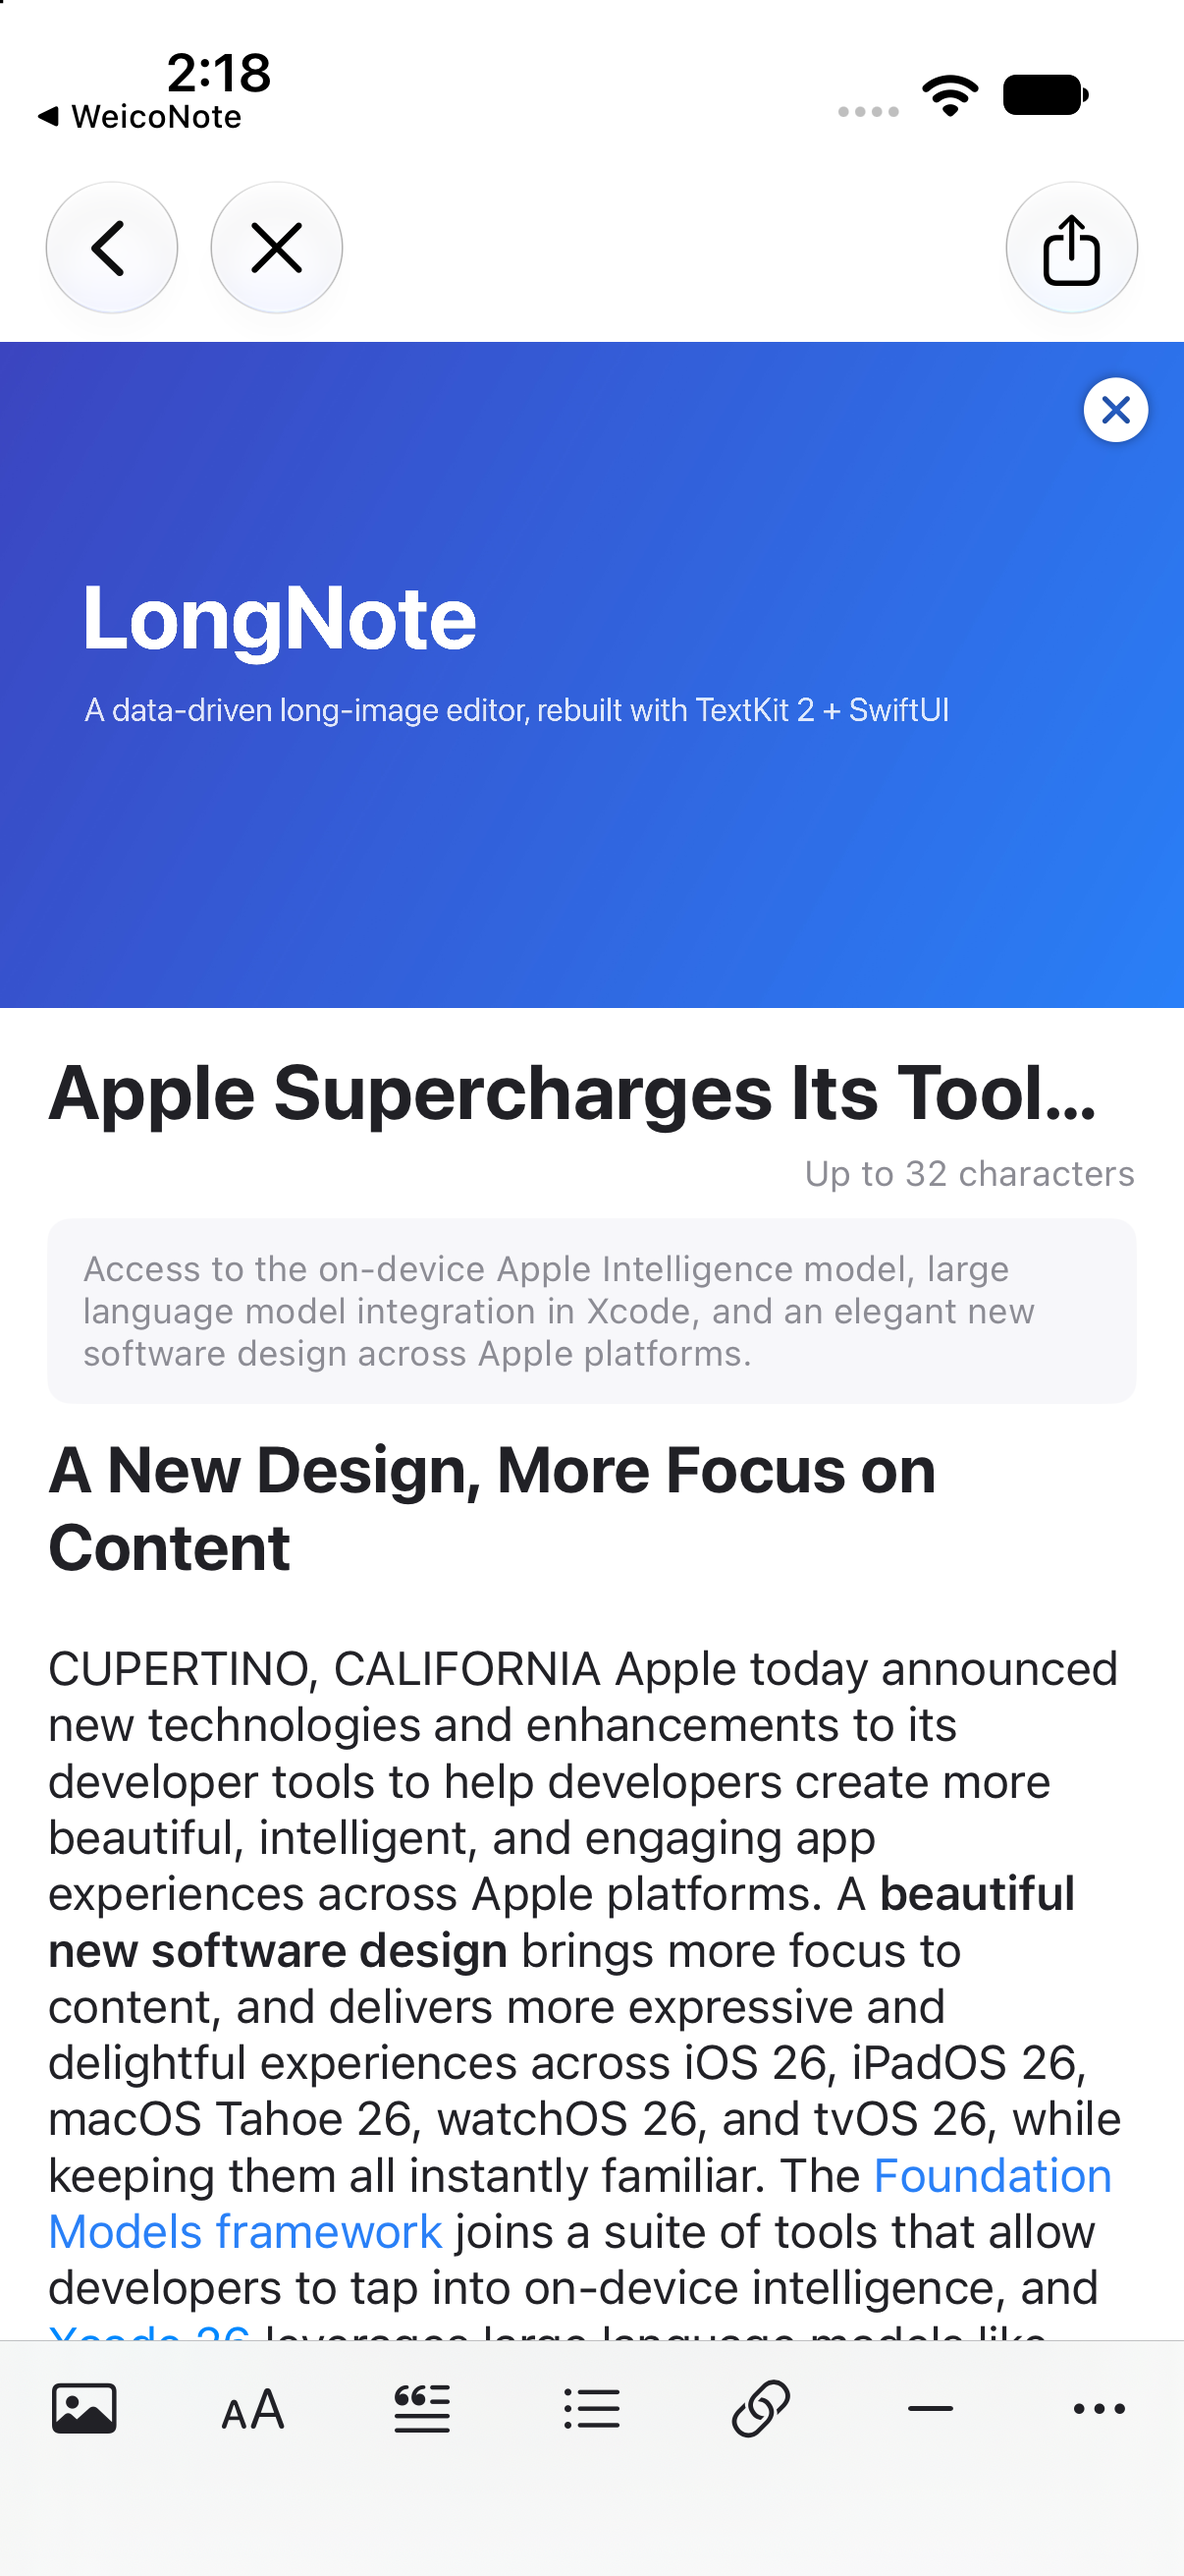
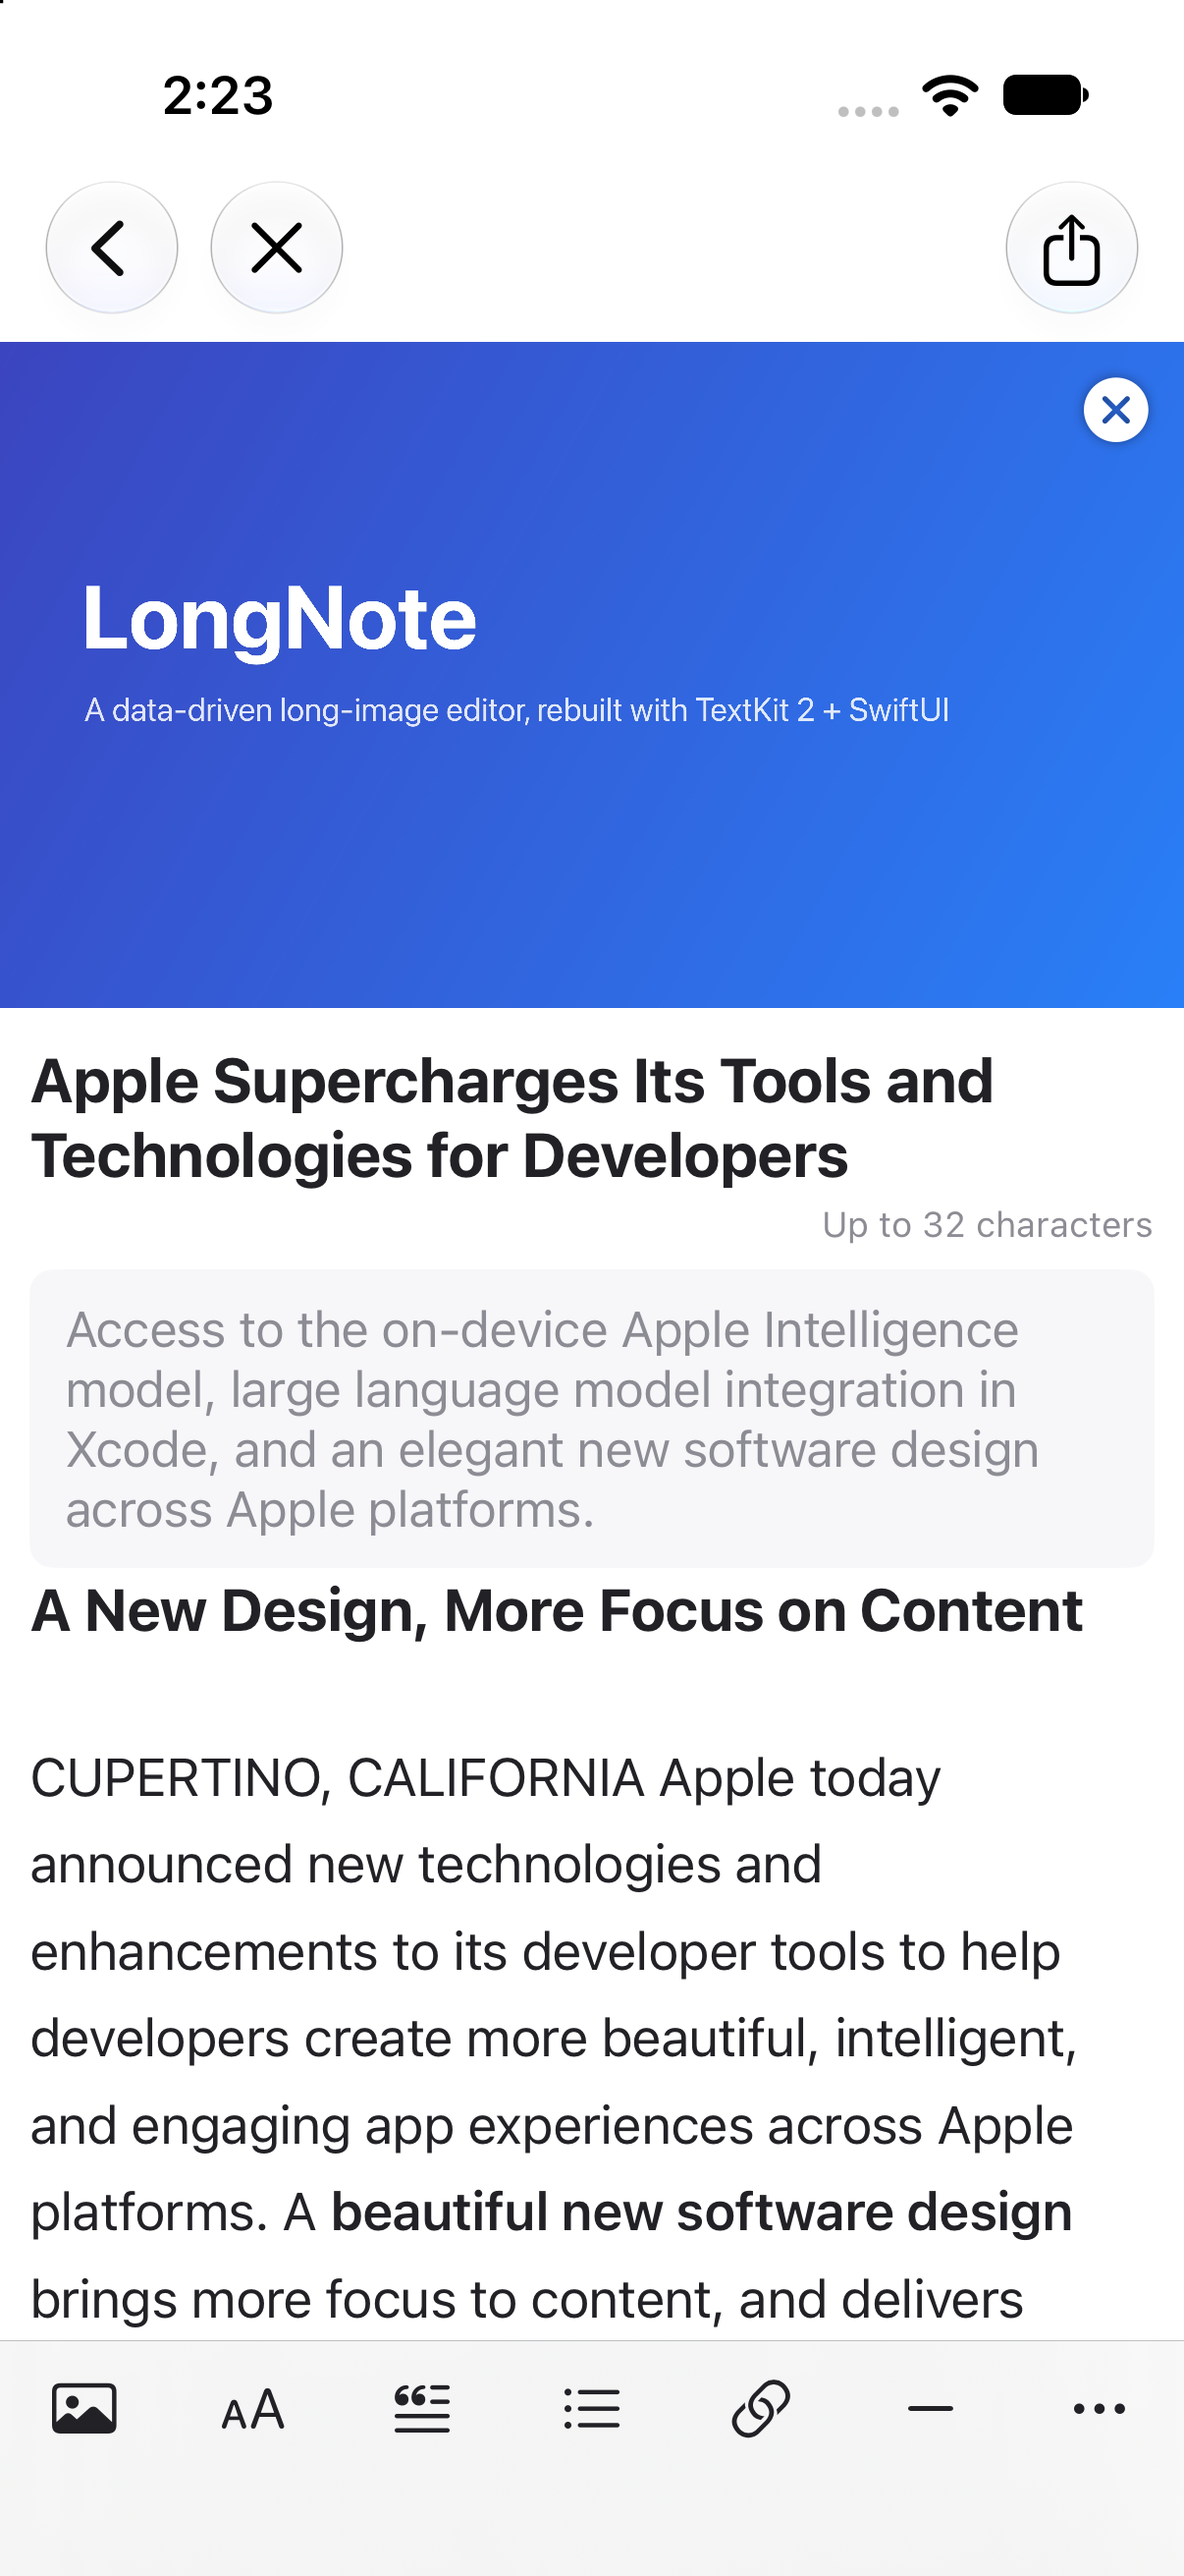
Match the original editor's typography and paragraph rhythm
Ports the layout constants from the original WeicoArticle (AppConstant.h):

- fonts: title 21, H1 20, H2 19, body 18, summary/quote 17, caption 13
- line spacing: 8 pt for text, 7 pt for quotes (kLineHeight*)
- paragraph gap: 30 pt, applied below each paragraph only (kMarginParagraph);
  list items breathe by 8 pt and the last item by 30 pt (kEdgeInsetsUnorder*)
- margins: text 10 pt, quote bar at 20 with text at 38 / right 23, list text
  at 42 (kMarginTextLeft / kMarginQuoteLeft / kMarginUnorderListLeft)

Also fixes list rows bouncing between two heights: height is now measured with
the text view's own sizeThatFits at its current width instead of mutating the
text container, which fought UIKit's own sizing. Consecutive frames are now
pixel-identical.

The title wraps to two lines instead of truncating, and the summary shows four
lines, both matching the original's multi-line fields.

Changed region(s): [[0.0307, 0.4016, 0.9511, 0.9268], [0.0614, 0.0, 0.2454, 0.0618]]

diff --git a/Sources/LongNoteCore/TextStyle/TextStyle.swift b/Sources/LongNoteCore/TextStyle/TextStyle.swift
@@ -9,37 +9,58 @@ import Foundation
 public enum TextStyle {
   // MARK: Font sizes (points)
 
+  // Sizes mirror the original WeicoArticle constants (kFontSize*).
+
   /// The article title field at the top of the screen.
-  public static let articleTitleFontSize: CGFloat = 26
+  public static let articleTitleFontSize: CGFloat = 21
   /// In-body main heading (H1).
-  public static let heading1FontSize: CGFloat = 22
+  public static let heading1FontSize: CGFloat = 20
   /// In-body sub-heading (H2).
   public static let heading2FontSize: CGFloat = 19
   /// Regular body text.
-  public static let bodyFontSize: CGFloat = 16
+  public static let bodyFontSize: CGFloat = 18
+  /// The summary / lede row.
+  public static let summaryFontSize: CGFloat = 17
   /// Block quote text.
-  public static let quoteFontSize: CGFloat = 15
+  public static let quoteFontSize: CGFloat = 17
   /// List item text.
-  public static let listFontSize: CGFloat = 16
+  public static let listFontSize: CGFloat = 18
   /// Image caption.
   public static let captionFontSize: CGFloat = 13
   /// Article date line and the export watermark.
   public static let metaFontSize: CGFloat = 12
 
+  // MARK: Line spacing (inside one paragraph; original kLineHeight*)
+
+  /// Extra leading between lines of body / heading / list text.
+  public static let lineSpacingText: CGFloat = 8
+  /// Extra leading between quote lines.
+  public static let lineSpacingQuote: CGFloat = 7
+  /// Extra leading under an image caption.
+  public static let lineSpacingCaption: CGFloat = 5
+
   // MARK: Spacing (points)
 
-  /// Horizontal padding inside the editor for text paragraphs.
-  public static let editorHorizontalInset: CGFloat = 16
-  /// Vertical gap between two regular paragraphs.
-  public static let paragraphSpacing: CGFloat = 14
-  /// Extra bottom gap after the last item of a list run.
-  public static let listLastSpacing: CGFloat = 26
+  /// Horizontal padding inside the editor for text paragraphs (original
+  /// `kMarginTextLeft` = 15 − 5).
+  public static let editorHorizontalInset: CGFloat = 10
+  /// Left inset of the quote bar (original `kMarginQuoteLeft` = 20 + 4 + 19 − 5).
+  public static let quoteInset: CGFloat = 20
+  /// Right inset of quote text (original `kMarginQuoteRight` = 28 − 5).
+  public static let quoteRightInset: CGFloat = 23
+  /// Quote bar width.
+  public static let quoteBarWidth: CGFloat = 4
+  /// Gap *below* every paragraph (original `kMarginParagraph` = 30).
+  public static let paragraphSpacing: CGFloat = 30
+  /// Gap below a list item that is followed by another item (original
+  /// `kLineHeightText` = 8).
+  public static let listItemSpacing: CGFloat = 8
+  /// Gap below the last item of a list run (original `kEdgeInsetsUnorderLast`).
+  public static let listLastSpacing: CGFloat = 30
   /// Gap above/below dividers and image blocks.
   public static let blockSpacing: CGFloat = 18
   /// Horizontal inset of a divider line.
   public static let dividerInset: CGFloat = 32
-  /// Quote bar width.
-  public static let quoteBarWidth: CGFloat = 3
 
   // MARK: Colors (RGBA in 0...1)
 

diff --git a/Sources/LongNote/Editor/ParagraphEditorView.swift b/Sources/LongNote/Editor/ParagraphEditorView.swift
@@ -48,18 +48,25 @@
       return action.1
     }
 
-    private var verticalPadding: CGFloat {
-      if paragraph.kind == .list, paragraph.isLastInList {
-        return (TextStyle.paragraphSpacing + TextStyle.listLastSpacing) / 2
+    private var isQuote: Bool { paragraph.kind == .quote }
+    private var isList: Bool { paragraph.kind == .list }
+
+    /// The original editor puts the gap *below* each paragraph only
+    /// (`kEdgeInsets*` bottom): 30 pt for text blocks, `kLineHeightText` (8 pt)
+    /// between list items, and 30 pt again after the last item of a run.
+    private var bottomSpacing: CGFloat {
+      if isQuote { return TextStyle.paragraphSpacing + 3 }
+      if isList {
+        return paragraph.isLastInList ? TextStyle.listLastSpacing : TextStyle.listItemSpacing
       }
-      return TextStyle.paragraphSpacing / 2
+      return TextStyle.paragraphSpacing
     }
 
     var body: some View {
-      HStack(alignment: .top, spacing: 10) {
-        if paragraph.kind == .quote {
+      HStack(alignment: .top, spacing: isQuote ? 14 : 10) {
+        if isQuote {
           quoteBar
-        } else if paragraph.kind == .list {
+        } else if isList {
           bullet
         }
 
@@ -91,8 +98,10 @@
         .frame(height: height)
       }
       .frame(maxWidth: .infinity, alignment: .leading)
-      .padding(.horizontal, TextStyle.editorHorizontalInset)
-      .padding(.vertical, verticalPadding)
+      .padding(.leading, isQuote ? TextStyle.quoteInset : TextStyle.editorHorizontalInset)
+      .padding(.trailing, isQuote ? TextStyle.quoteRightInset : TextStyle.editorHorizontalInset)
+      .padding(.top, isQuote ? 3 : 0)
+      .padding(.bottom, bottomSpacing)
     }
 
     private var quoteBar: some View {
@@ -108,7 +117,7 @@
         .font(.system(size: TextStyle.listFontSize, weight: .medium))
         .foregroundStyle(TextStyle.textColor.color)
         .padding(.top, 2)
-        .frame(width: 16)
+        .frame(width: 22)
     }
 
     /// Rough first-frame height so the row isn't zero-height before the text view

diff --git a/Sources/LongNote/Editor/RichTextView.swift b/Sources/LongNote/Editor/RichTextView.swift
@@ -224,18 +224,15 @@
       // MARK: Height
 
       func reportHeight(_ textView: UITextView) {
-        // Measure at the view's *current* width. On the first layout pass the
-        // text container can still carry a stale (or zero) width, which makes a
-        // wrapping paragraph measure as a single line and clip its second line.
+        // Ask the text view itself how tall it needs to be at its current
+        // width. Measuring the layout manager directly can use a stale text
+        // container width (clipping a wrapped line) and mutating the container
+        // size fights the view's own sizing — which made list rows bounce
+        // between two heights while laying out.
         let width = textView.bounds.width
         guard width > 0 else { return }
-        textView.textContainer.size = CGSize(width: width, height: .greatestFiniteMagnitude)
-
-        let layoutManager = textView.layoutManager
-        layoutManager.ensureLayout(for: textView.textContainer)
-        let used = layoutManager.usedRect(for: textView.textContainer)
-        let inset = textView.textContainerInset
-        let height = ceil(used.height + inset.top + inset.bottom)
+        let fitting = textView.sizeThatFits(CGSize(width: width, height: .greatestFiniteMagnitude))
+        let height = ceil(fitting.height)
         guard height != lastReportedHeight || width != lastReportedWidth else { return }
         lastReportedHeight = height
         lastReportedWidth = width

diff --git a/Sources/LongNote/Editor/RichTextStyling.swift b/Sources/LongNote/Editor/RichTextStyling.swift
@@ -11,7 +11,12 @@
     /// agree — and a paragraph that carries no explicit font still renders at
     /// its kind's size (H1 = 22 pt, quote = 15 pt, …).
     public func styledText(_ kind: ParagraphKind) -> NSAttributedString {
-      let base = kind.baseAttributes
+      // Line spacing belongs to the block too, so every paragraph of a kind
+      // breathes the same way (original kLineHeight*).
+      let paragraphStyle = NSMutableParagraphStyle()
+      paragraphStyle.lineSpacing = kind.lineSpacing
+      var base = kind.baseAttributes
+      base[.paragraphStyle] = paragraphStyle
       let result = NSMutableAttributedString()
       for run in runs {
         var attributes = base

diff --git a/Sources/LongNote/Editor/SummaryBlockView.swift b/Sources/LongNote/Editor/SummaryBlockView.swift
@@ -14,13 +14,13 @@
       } label: {
         HStack(spacing: 8) {
           Text(document.article.summary ?? "Add a summary (optional)")
-            .font(.system(size: TextStyle.metaFontSize))
+            .font(.system(size: TextStyle.summaryFontSize))
             .foregroundStyle(
               document.article.summary == nil
                 ? TextStyle.placeholderColor.color
                 : TextStyle.secondaryTextColor.color
             )
-            .lineLimit(3)
+            .lineLimit(4)
             .multilineTextAlignment(.leading)
           Spacer(minLength: 0)
         }

diff --git a/Sources/LongNote/TextStyle/TextStyle+iOS.swift b/Sources/LongNote/TextStyle/TextStyle+iOS.swift
@@ -33,6 +33,11 @@
       TextStyle.textColor.uiColor
     }
 
+    /// Extra leading between lines of this block (original `kLineHeight*`).
+    public var lineSpacing: CGFloat {
+      self == .quote ? TextStyle.lineSpacingQuote : TextStyle.lineSpacingText
+    }
+
     /// Default typing attributes for fresh text of this kind.
     public var baseAttributes: [NSAttributedString.Key: Any] {
       [.font: baseFont, .foregroundColor: baseColor]

diff --git a/Sources/LongNote/Editor/TitleBlockView.swift b/Sources/LongNote/Editor/TitleBlockView.swift
@@ -22,8 +22,10 @@
                 document.updateTitle(newValue)
               }
             }
-          )
+          ),
+          axis: .vertical
         )
+        .lineLimit(1...2)
         .font(.system(size: TextStyle.articleTitleFontSize, weight: .bold))
         .foregroundStyle(TextStyle.textColor.color)
         .frame(maxWidth: .infinity, alignment: .leading)
